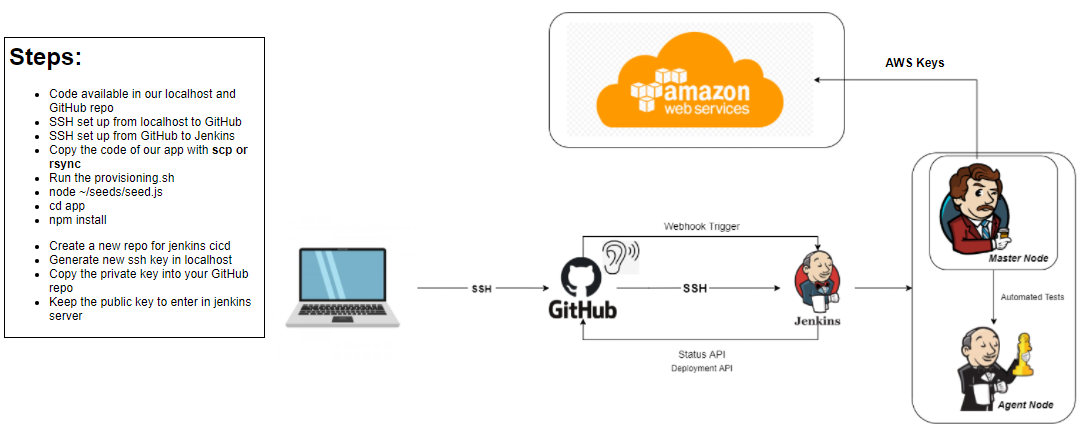
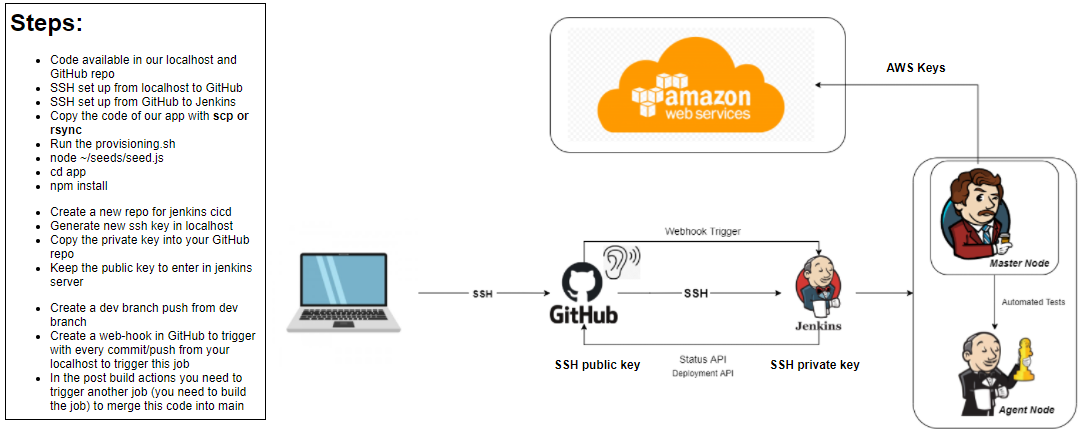
readme updated

Changed region(s): [[0.0, 0.03, 1.0, 0.9885], [0.4884, 0.03, 0.7937, 0.2995], [0.6716, 0.1198, 0.7021, 0.1498]]

diff --git a/READMe.md b/READMe.md
@@ -76,7 +76,7 @@ The test for posts will fail ( as expected ) if the database has not been correc
 - Check the key `cat filipejenkins.pub`
 - Copy it and paste on GitHub repo, under repo settings, deploy keys, add key
 
-### Jenkins Create Pipeline
+### Jenkins Create Simple Pipeline
 
 #### Create a pipeline item to be ran when the other item runs
 
@@ -102,3 +102,32 @@ The test for posts will fail ( as expected ) if the database has not been correc
 
 - Build the main job and see if it ran, also check if it built a new job for pipeline item
 - To see if job ran, check console output next to each item name
+
+
+### Jenkins Pipeline with GitHub
+
+1. New item `filipe_cicd_pipeline`
+2. Freestyle project
+3. Click on GitHub project and copy the URL from `code > https` and paste on Jenkins
+4. Restrict where this project can be run `sparta-ubuntu-node`
+5. Source Code Management > Git > go to GitHub and copy URL from `code > SSH` and paste it on repository url in Jenkins
+6. Credentials add the private key > add > Jenkins:
+	- Kind `SSH username with private key`
+	- username `eng89_filipe`
+	- Private Key enter directly > Paste your private key from localhost INCLUDING THE `------BEGIN OPENSSH AND -----END ---`
+7. Select the new key on Credentials
+8. Branches to build - change to */main
+9. Check `GitHub hook trigger for GITScm polling`
+10. Check `Provide Node & npm bin/ folder to PATH`
+11. Build execute shell
+	- cd app
+	- npm install
+	- npm test
+12. Save and Build
+
+- Go to job > workspace and check that Jenkins cloned the git repo
+
+#### Create a web-hook for Jenkins
+
+- Copy Jenkins IP address from URL
+- Go to GitHub > Repo Settings > webhooks > add webhook > Payload URL `http://[JENKINSIP:PORT]/github-webhook/`
